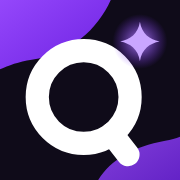
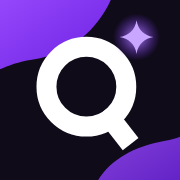
v86 : icône avec le Q recentré et la queue à bout carré
Claude-Session: https://claude.ai/code/session_01QrpCiG9GfaW4vbnyS2JTTs

Changed region(s): [[0.1389, 0.1111, 0.9167, 0.9444], [0.3333, 0.2222, 0.3889, 0.25]]

diff --git a/index.html b/index.html
@@ -1042,7 +1042,7 @@ body::after{bottom:-60px;right:-80px;width:220px;height:170px;border-radius:120p
    ========================================================= */
 
 const KEY = 'questrun.v1';
-const VERSION = 'v85';
+const VERSION = 'v86';
 const PTS = { common: 100, rare: 250, epic: 500, legend: 1000, mythic: 2000 };
 // rareté d'une carte = effort pour y aller et revenir (km A/R + D+) ; un trésor caché monte d'un cran (27/10)
 const TIERS = ['common', 'rare', 'epic', 'legend'];

diff --git a/sw.js b/sw.js
@@ -1,5 +1,5 @@
 // Hors-ligne : on essaie le réseau d'abord, sinon la copie en cache.
-const CACHE = 'questrun-v85';
+const CACHE = 'questrun-v86';
 const SHELL = ['./', './index.html', './manifest.webmanifest', './icon.svg', './icon-192.png', './grimoire.svg', './sage.png'];
 const HOSTS = ['cdnjs.cloudflare.com', 'fonts.googleapis.com', 'fonts.gstatic.com'];
 

diff --git a/CLAUDE.md b/CLAUDE.md
@@ -62,6 +62,7 @@
 - **Raretés tirées au sort** (v45, 29/10, chiffres de Bazil) : chaque quête tire sa rareté (`TIER_ODDS` : Commune 36 %, Rare 35 %, Épique 18 %, Légendaire 10 %, Mythique 1 %), et la rareté décide de la distance (`TIER_KM` : ×1 / 1,15 / 1,3 / 1,5 / 1,6). Remplace « rareté = effort » pour les nouvelles quêtes (`q.tier`). Vitrine : table fixe de ces %. Changer/remplacer une quête garde sa rareté ; le lien ami transmet la rareté.
 - **Intro par le vieux sage** (v45) : 5 bulles courtes au lieu de l'écran de bienvenue (« Ah, te voilà enfin, jeune coureur ! » … « Une prophétie annonce l'Élu Runner… c'est toi ! » … « Alors, Élu… tu es prêt ? » → « Je suis prêt ! »). Étape 8 : le sage introduit les 3 secrets. Fin : « Va, Élu Runner. La ville compte sur toi ! ».
 - **Booster « Me prévenir »** (v45) : e-mail + case newsletter obligatoire (RGPD) → relais `/mail` → KV `PUSH`, clés `mail:…` (lire dans Cloudflare → KV). **Cadeau du jour** : plus de montants sur les jours (✓ / 🎁), montant seulement à l'ouverture.
+- **v86 (05/11)** : icône retouchée : **Q recentré** (groupe Q + étoile centré, réduit à 86 %) et **queue du Q à bout carré** (`stroke-linecap: square`) ; régénérée partout (icône d'écran d'accueil 180/192/512, favicon `icon.svg`, notifications, images partagées, étape 3 de l'installation).
 - **v85 (05/11) : trajet par les quais** (Bazil : l'appli proposait de traverser Billancourt, il voulait longer la Seine par la rive de Meudon jusqu'au Pont de Sèvres, « beaucoup plus beau ») :
   - **3 trajets comparés** (`makeRoute`) : direct agréable, par les parcours (≤ +25 %), **par les quais** (`waterVia`, ≤ **+90 %**). Le gagnant = le plus **beau** (`routeBeauty` : part du trajet au bord de l'eau, ×1 ; dans le vert, ×0,6), moins 0,35 × le surplus de distance. Exemple Boulogne → Pont de Sèvres : quais 70 % beau à ×1,8 > direct 33 %.
   - **`waterVia`** : entrée sur le bord de l'eau le plus proche qui va dans le bon sens, puis on **longe la rive pas à pas** (points des parcours de runners au bord de l'eau, même chemin en priorité), on la quitte au plus près du lieu ; 5 points de passage max.
